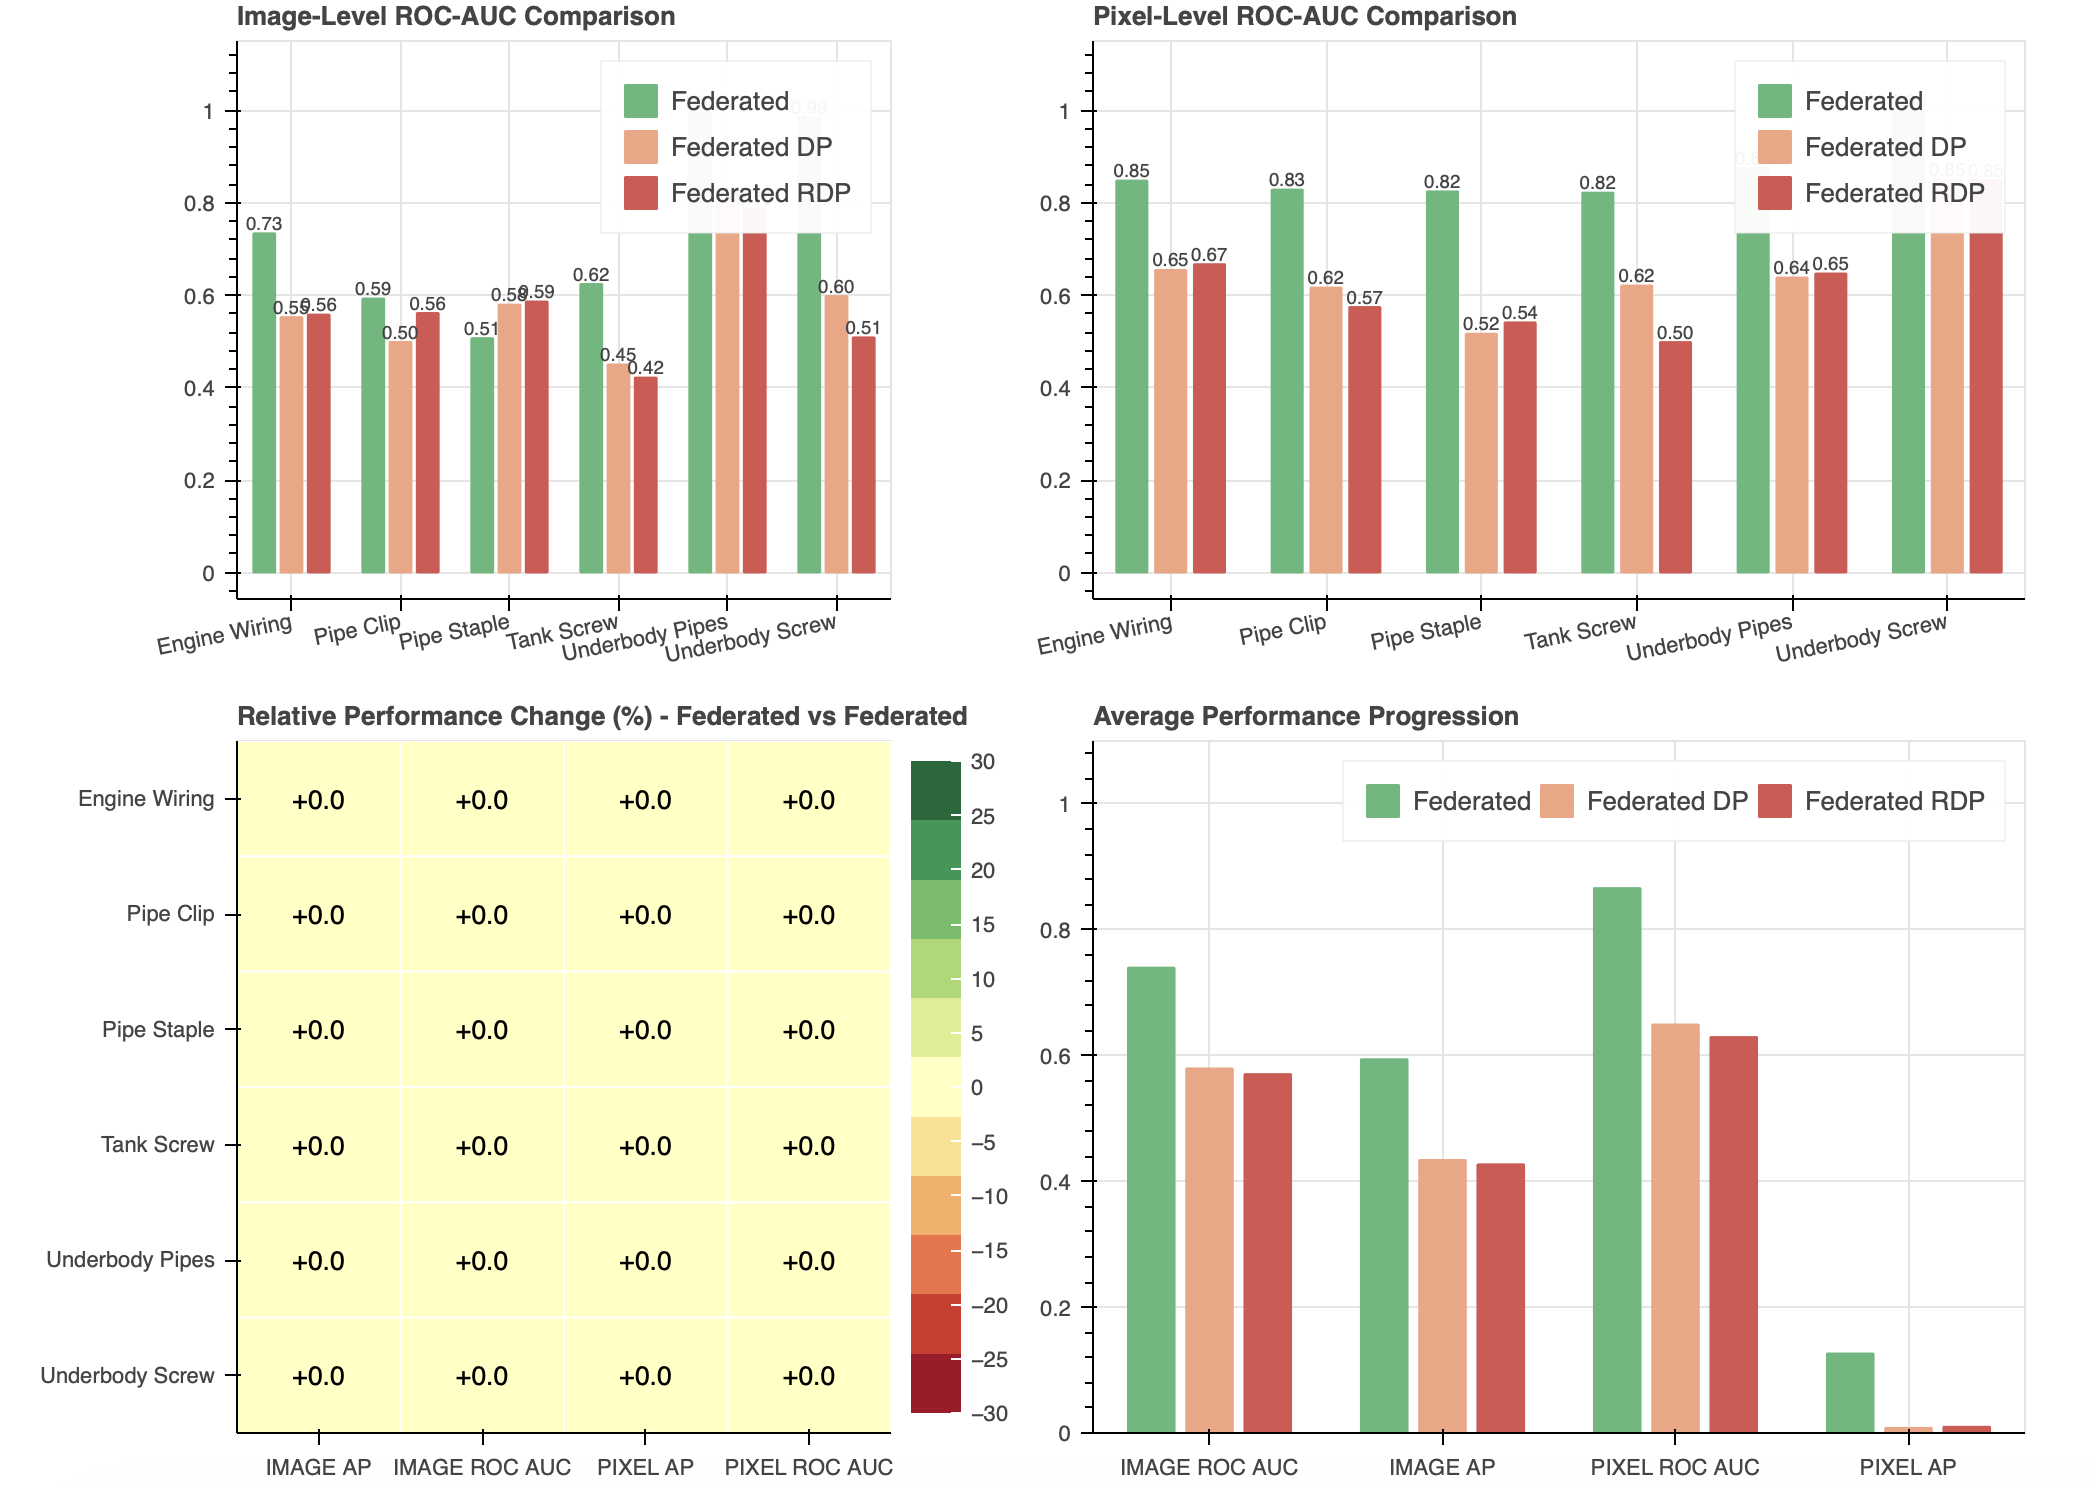
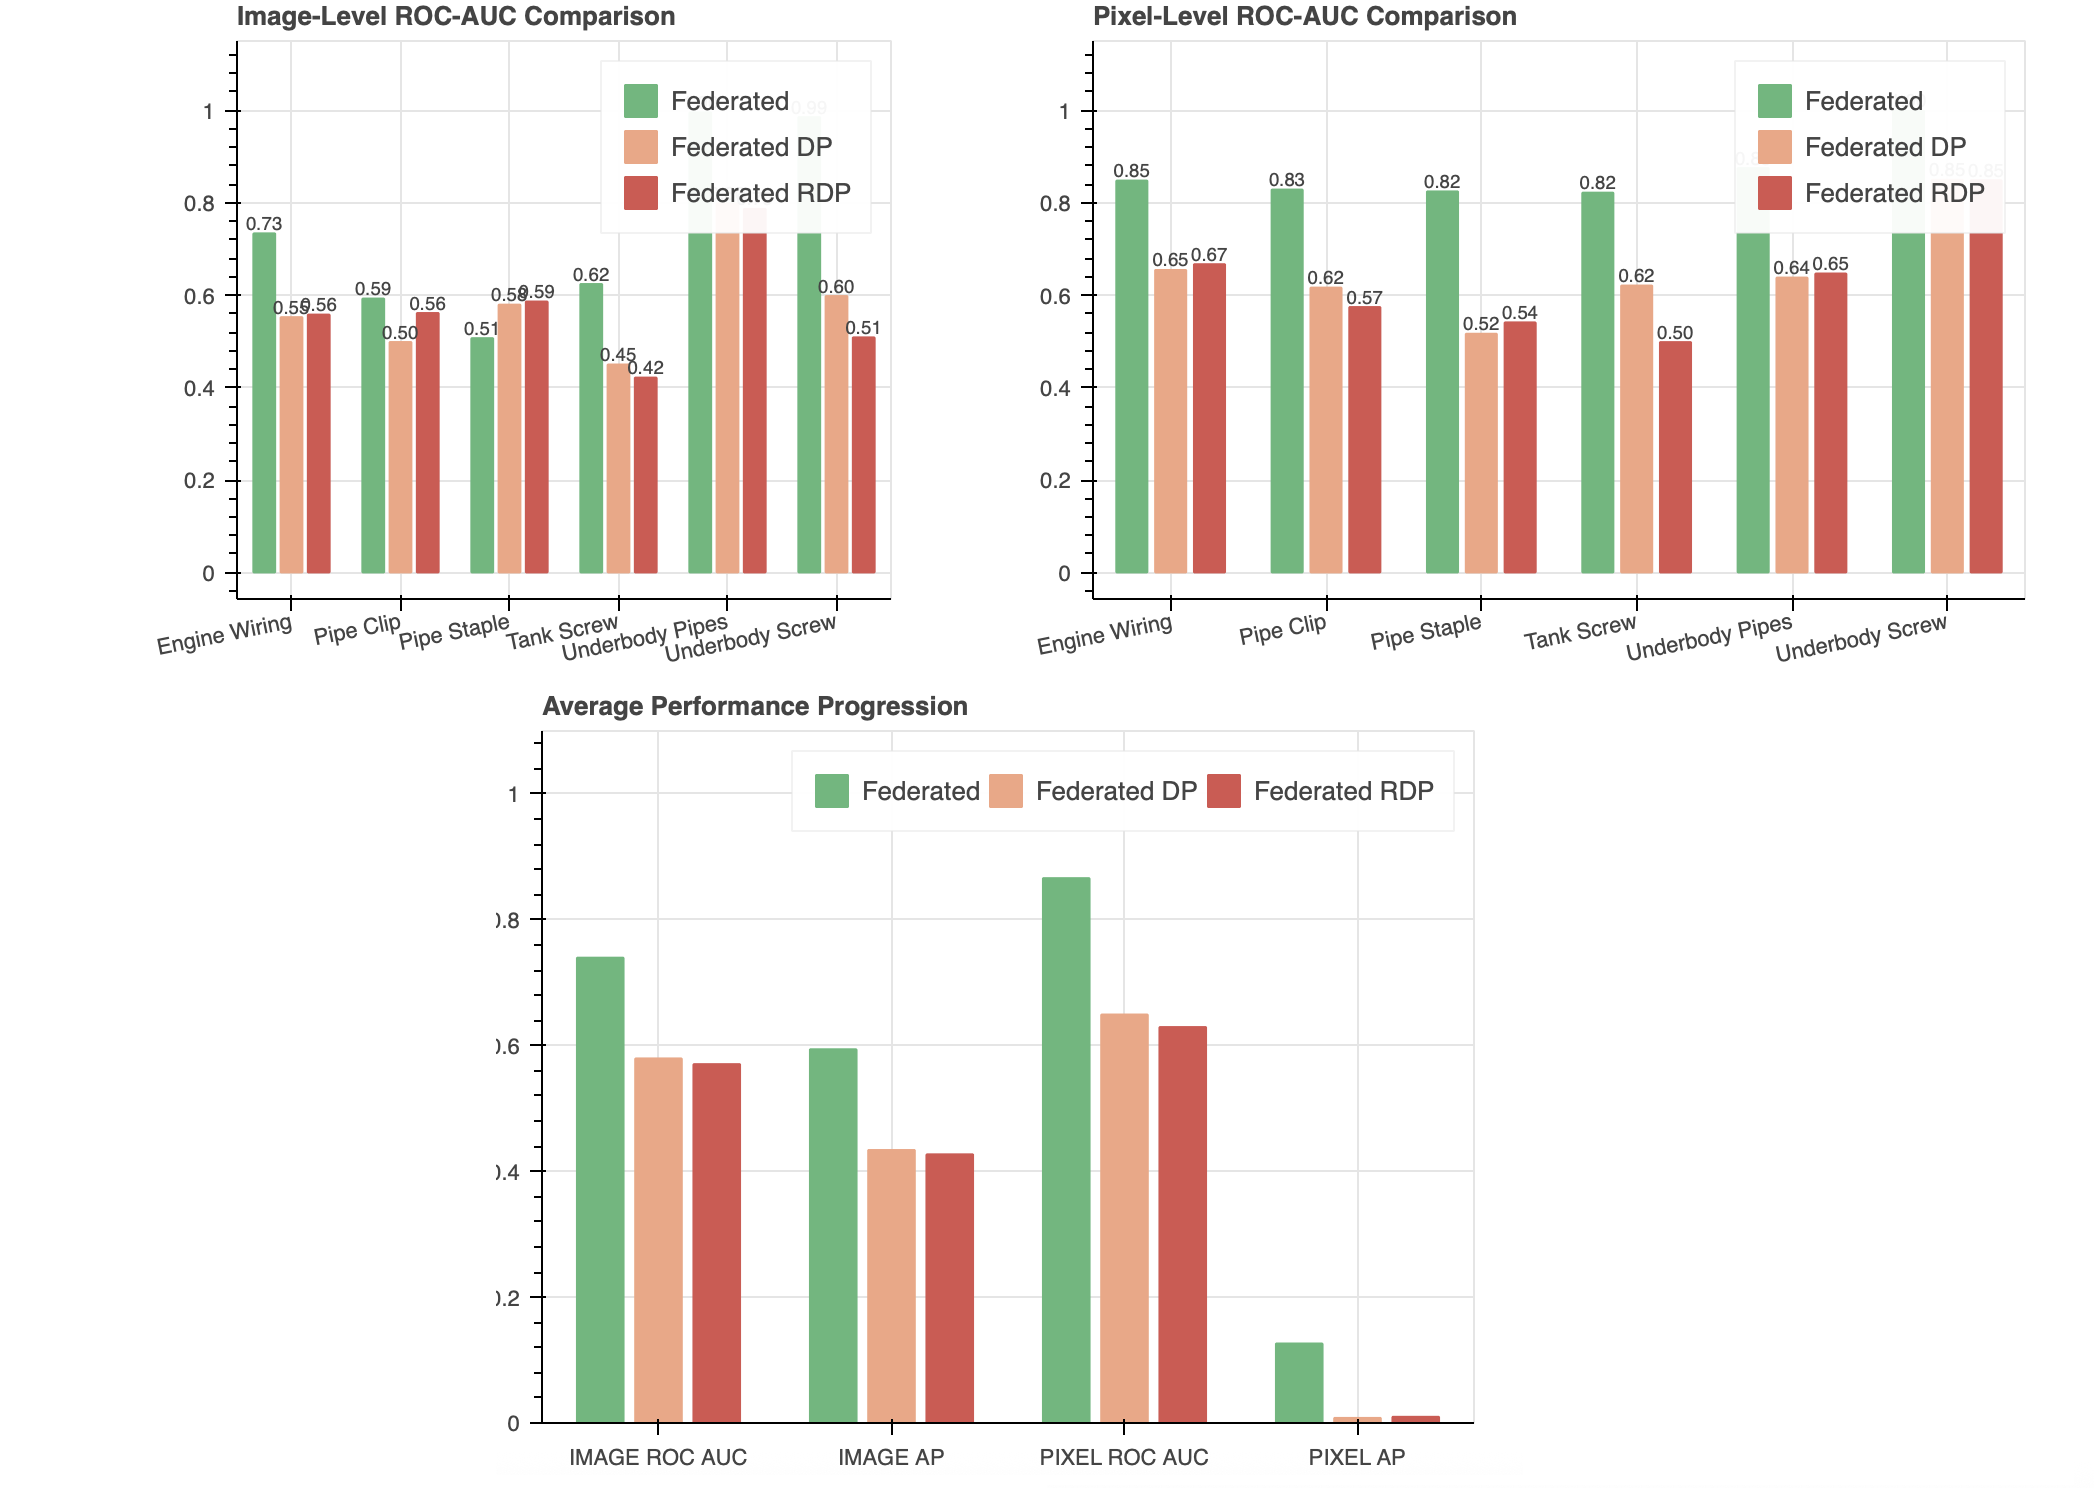
Rehashed the abstract and fixed some small issues

diff --git a/paper/report-formatted.tex b/paper/report-formatted.tex
@@ -51,7 +51,7 @@
 \maketitle
 
 \begin{abstract}
-We investigate industrial anomaly detection for automotive inspection using the AutoVI dataset. We implement PatchCore with coreset subsampling and evaluate centralized and federated setups under non‑IID client splits, including fairness‑aware sampling strategies. To align with trustworthy AI goals, we incorporate differential privacy, robustness via controlled corruptions, and explainability through anomaly heatmaps, Grad‑CAM, and SHAP visualizations. We report image‑ and pixel‑level performance across six categories and extend inference to additional datasets to assess generalization and qualitative behavior.
+In the past decade industrial anomaly detection for automotive car parts through automatic image recognition has reached human level performance. While investigating state of the art approaches we uncovered a potential gap in trustworthiness additions to current state of the art anomaly detection. Thus we implement a PatchCore model with coreset subsampling and we evaluate centralized and federated setups under non‑IID client splits, including fairness‑aware sampling strategies. To align with trustworthy AI goals, we incorporate differential privacy, robustness via controlled corruptions, and explainability through anomaly heatmaps, Grad‑CAM, and SHAP visualizations. We report image‑ and pixel‑level performance across six categories and extend inference to additional datasets to assess generalization and qualitative behavior. The analysis of the results of all ablations demonstrate that trustworthiness is achievable but not neutral in terms of the associated cost to model accuracy.
 
 \end{abstract}
 \tableofcontents
@@ -438,7 +438,7 @@ In the figures below we can observe the difference is a visual manner.
 \begin{figure}[htbp]
     \centering
     \includegraphics[width=\textwidth]{figures/comparison-central-random-kcenter-detailed.png}
-    \caption{Detailed per-category comparison of all four evaluation metrics (Image AUROC, Pixel AUROC, Image AP, Pixel AP) between centralized and federated approaches.}
+    \caption{Detailed per-category comparison of all four evaluation metrics (Image AUROC, Pixel AUROC, Image AP, Pixel AP) between random and K-Center coreset sampling strategies.}
     \label{fig:detailed_comparisoncrk002}
 \end{figure}
 \FloatBarrier
@@ -492,7 +492,7 @@ Key configuration parameters for the federated setup:
     \item Number of federated rounds: 3
     \item Memory bank size limit: 50,000 features per category
     \item Aggregation method: Concatenation + random sampling
-    \item Communication protocol: gRPC via Flower framework
+    \item Communication protocol: customr framework based on pickle RPC
 \end{itemize}
 
 We implement a custom federated learning mechanism based on pickle RPC. We chose this over readily available frameworks like flower due to its strict synchronous client requirements, which was hard to implement in practice due to hardware availability. Our custom framework allowed asynchronous clients and separate upload and eval modes for clients. In the upload mode the client builds local memory banks and uploads them to the server. Once all clients have completed building their memory banks, the server will concatenate category banks and apply k-center coreset. In the eval mode the clients will download global banks into the trainer and compute the metrics.
@@ -598,6 +598,7 @@ To achieve a strong privacy guarantee, the target $\varepsilon = 1.0$ is chosen;
 
 
 \subsubsection{Renyi Differential Privacy}
+\label{sec:rdp_results}
 Introduced by \citep{Mironov_2017} Rényi Differential Privacy (RDP) is a generalization of differential privacy that provides a more mathematically tractable way to analyze the composition of private mechanisms, particularly for iterative algorithms.
  \\
 A randomized mechanism $\mathcal{M}$ satisfies $(\alpha, \epsilon)$-RDP if for any two adjacent datasets $D, D'$ (differing in a single element), the Rényi divergence of order $\alpha$ between their output distributions is bounded by
@@ -625,7 +626,7 @@ The tightest $(\varepsilon, \delta)$-DP bound is obtained by choosing the order 
 \begin{figure}[htbp]
     \centering
     \includegraphics[width=\textwidth]{figures/comparison004.png}
-    \caption{Comprehensive performance comparison showing: (top-left) image-level AUROC, (top-right) pixel-level AUROC, (bottom-left) performance degradation heatmap, (bottom-right) average metrics across all categories.}
+    \caption{Comprehensive performance comparison showing: (top-left) image-level AUROC, (top-right) pixel-level AUROC, (bottom) average metrics across all categories.}
     \label{fig:comparison004}
 \end{figure}
 \FloatBarrier
@@ -815,7 +816,7 @@ In order to simulate production-line variability in illumination and focus, corr
  \begin{figure}[htbp]
     \centering
     \includegraphics[width=\textwidth]{figures/comparison006.png}
-    \caption{Comprehensive performance comparison showing: (top-left) image-level AUROC, (top-right) pixel-level AUROC, (bottom-left) performance degradation heatmap, (bottom-right) average metrics across all categories.}
+    \caption{Comprehensive performance comparison showing: (top-left) image-level AUROC, (top-right) pixel-level AUROC,  (bottom) average metrics across all categories.}
     \label{fig:comparison006}
 \end{figure}
 \FloatBarrier
@@ -1118,9 +1119,7 @@ To run centralized baseline:
 To run federated experiments, start the server first, then launch multiple clients. Refer to \texttt{docs/federated\_guide.md} for detailed configuration options including differential privacy and fairness-aware coreset selection.
 
 \section{Preprocessing Pipeline}
-The data is hosted on Zenodo, which is  free, open-access research data repository created by CERN and supported by the European Commission. Its purpose is to let researchers upload, preserve, and share all kinds of research outputs — not just papers, but datasets, code, software releases, posters, presentations, images, videos, notebooks, even entire project snapshots.
-\\
-The dataset is described in a croissant file provided by Renault. For each of the six categories the croissant metadata points to a zip file hosted on Zenodo. We have used the exact structure provided by Renault and the only preprocessing that we did was to unzip the archives.
+The data is hosted on Zenodo and is described in a croissant file provided by Renault. For each of the six categories the croissant metadata points to a zip archive. We have used the exact structure provided by Renault and the only preprocessing that we did was to unzip the archives.
 \\
 The dataset is structured per category as follows:
 \begin{itemize}
